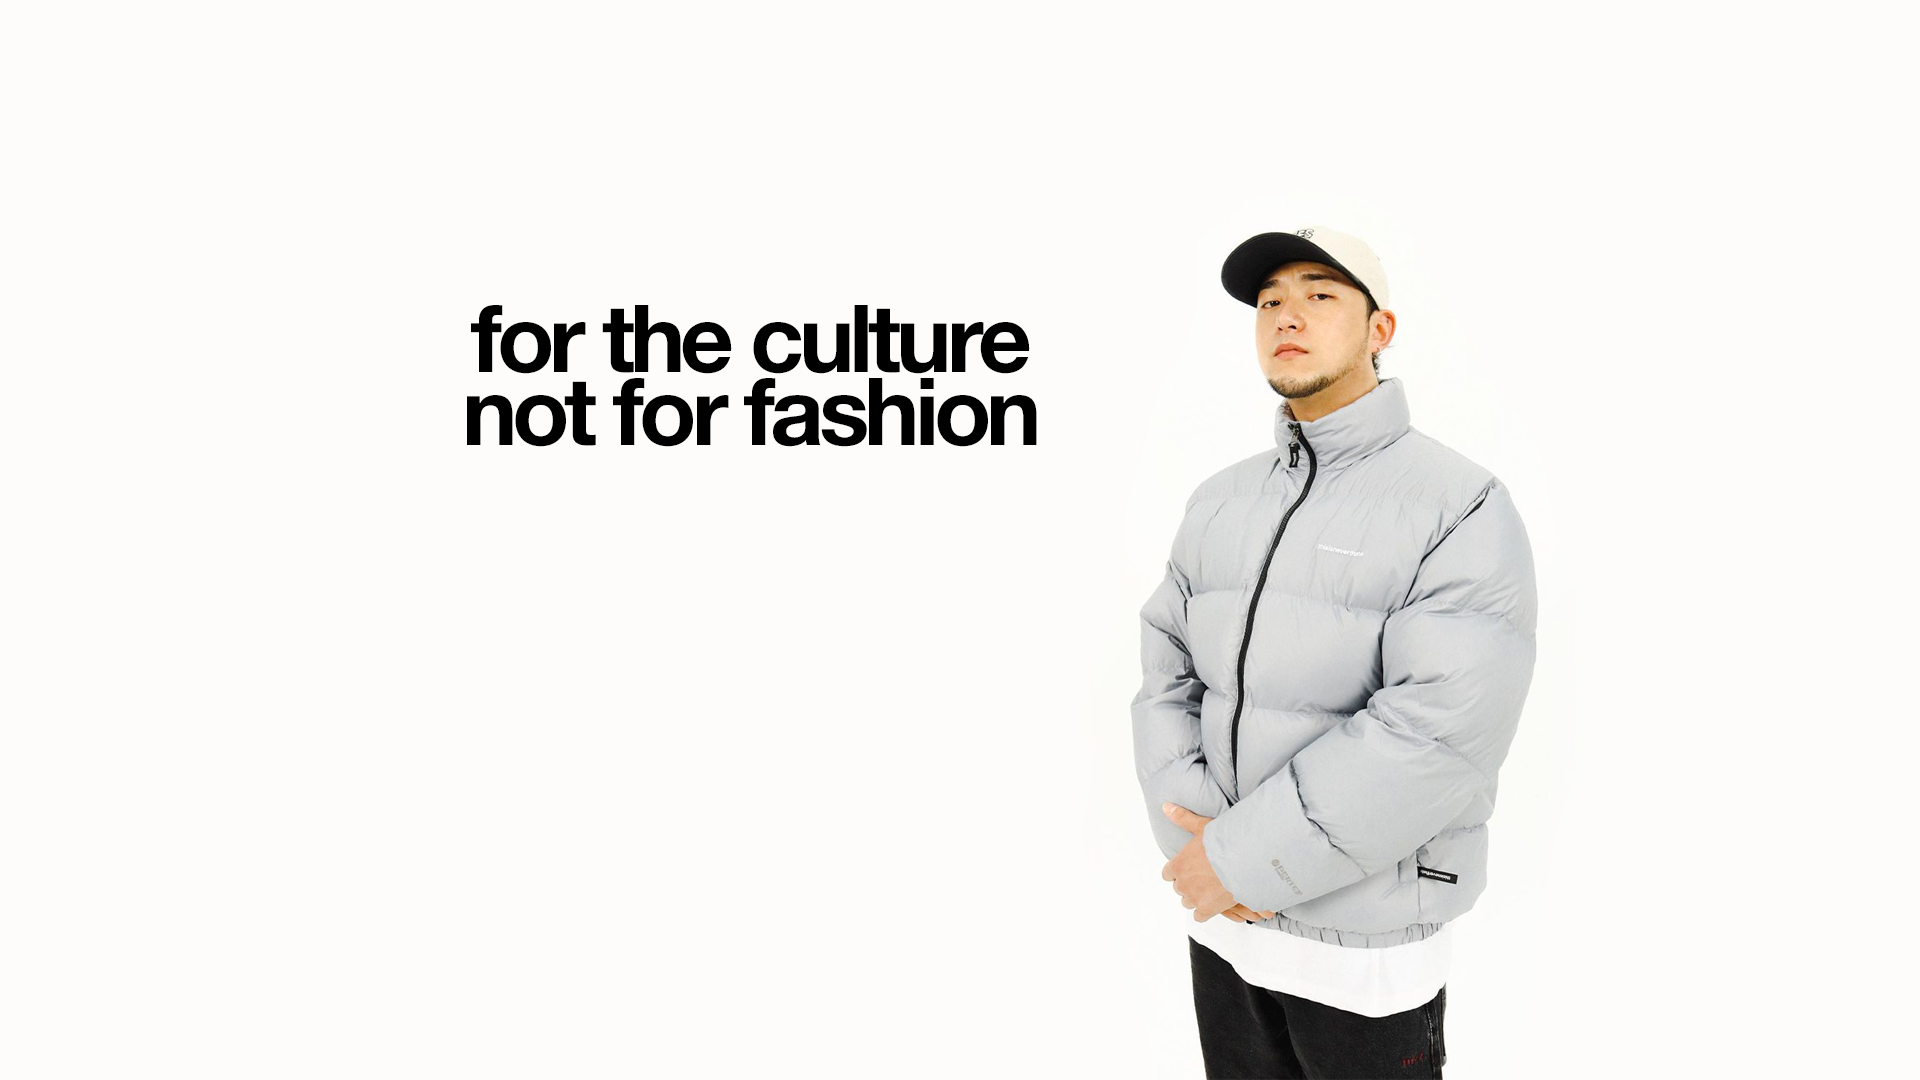
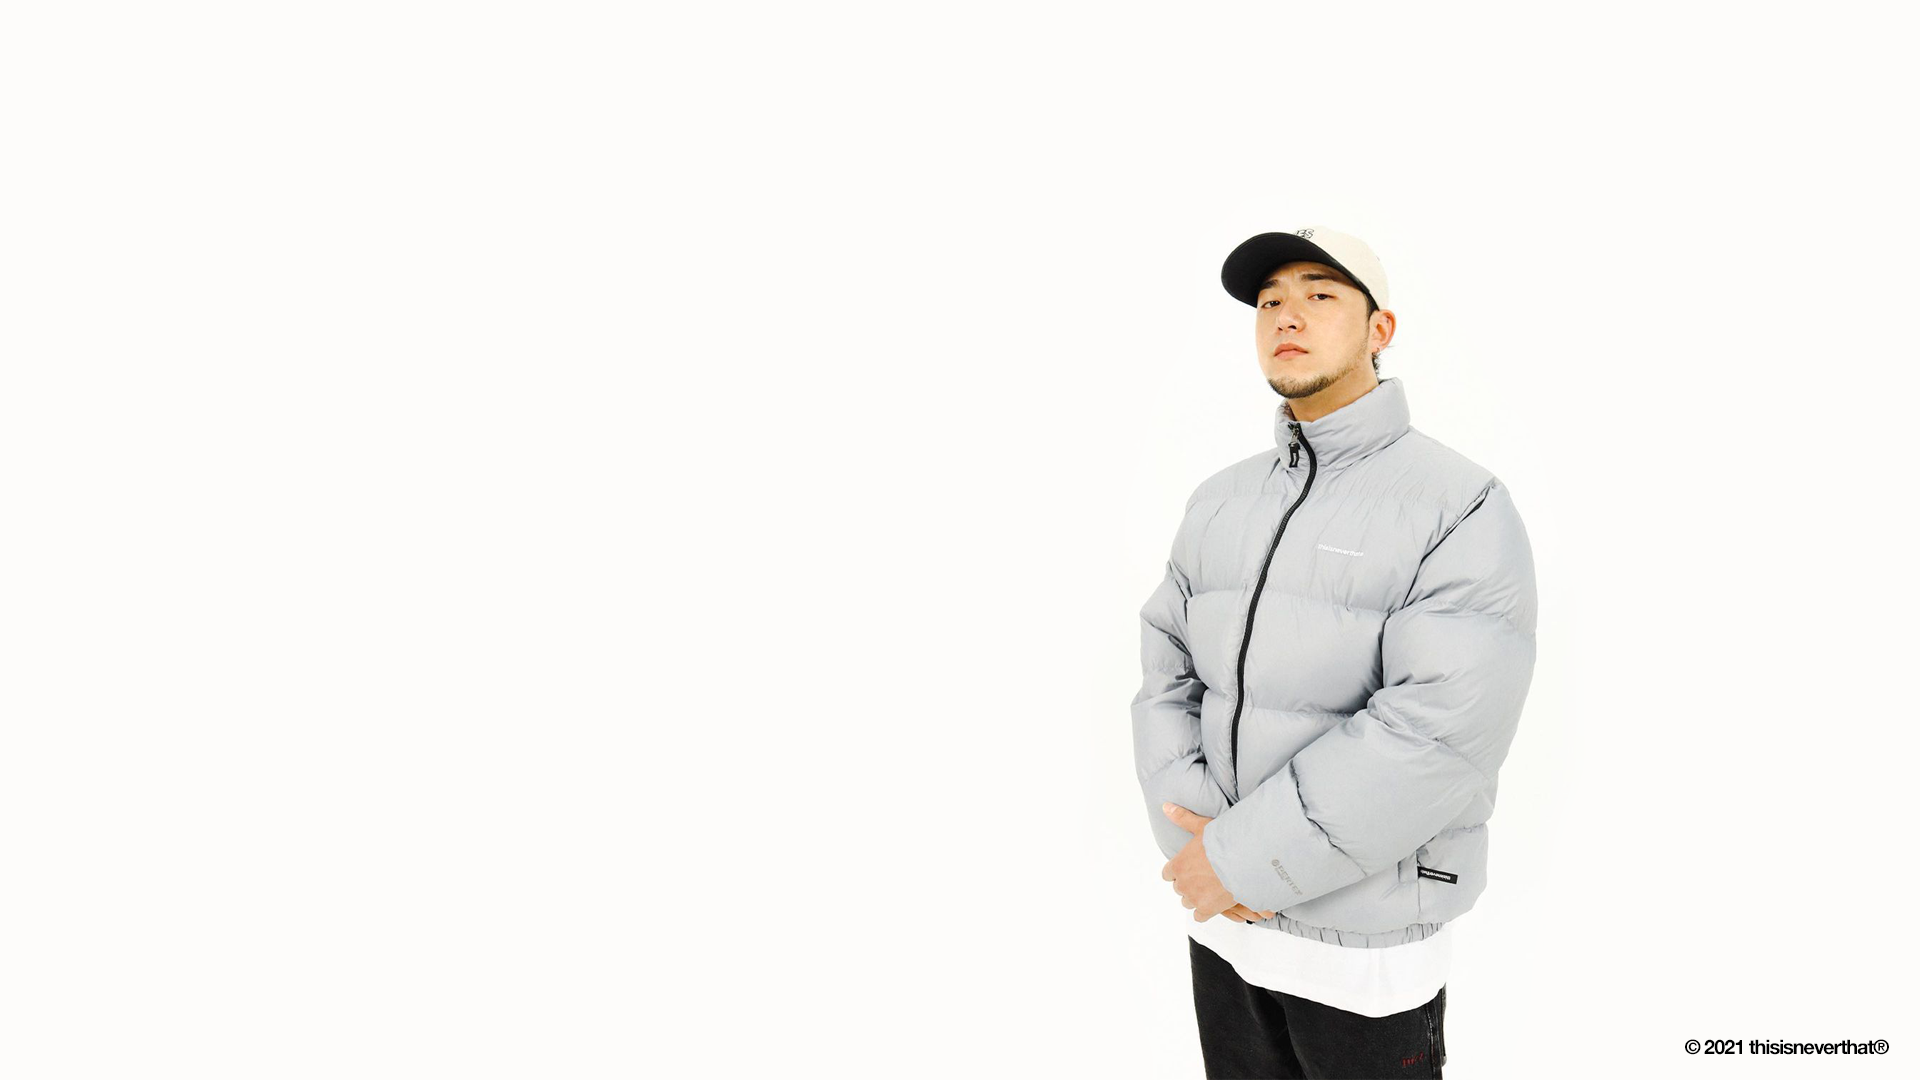
Add files via upload

Changed region(s): [[0.2188, 0.275, 0.5625, 0.4278], [0.875, 0.9472, 1.0, 0.9778]]

diff --git a/css/onepage.css b/css/onepage.css
@@ -2,11 +2,18 @@
 
 *{margin:0; padding:0;}
 html{height:100%;}
-body{overflow-y: hidden;}
+
 body::-webkit-scrollbar {display:none;}
 ul,li,ol {list-style: none;}
 a{text-decoration: none; color:#666;}
 
+/* hamburger */
+
+/* logo */
+#logo{position: absolute; top:0; left:1%; z-index:200; position:fixed; }
+#logo img{width:250px; height:auto;}
+
+/* menu */
 #menu {width:80px; height:250px;  position:fixed; 
     display:flex;
     justify-content:center;
@@ -15,33 +22,118 @@ a{text-decoration: none; color:#666;}
 
 #menu>ul {width:40px; height:220px;}
 
-#menu li {width:20px; height:20px; position:relative;
+#menu li {width:15px; height:15px; position:relative;
     display:block; margin:10px auto; border-radius:50%;
-    background-color: lightgray; transition:all 0.5s ease; }
+    border:1px solid black;
+    transition:all 0.5s ease; }
 
 #menu li a {transition:all 0.3s ease-in-out;
     top:0; left:0; width:100%; height:100%; outline:none; border-radius:50%;
     cursor:pointer; position:absolute;}
 
-#menu li:hover {opacity: 0.5;}    
+#menu li:hover { background-color: black;}    
 
+.active {background-color:black;}
+
+/* main */
 header {position: relative;}
-#logo {display: none;
+
+#text {font-family: "Helvetica Neue";
+    font-weight: bold;
+    font-size: 90px;
+    letter-spacing:-5px;
+    text-align: center;
+    line-height:80px;
     width:600px; height:180px; 
     position:absolute; top:260px; left:450px;
-    opacity: 0.5;
-    background-color: lightslategray; z-index: 200;}
+    z-index: 200;
+    transform:translateX(-500px); transition:all 2.5s; opacity: 0;
+    }
 
 
 
 #contents>div{height:100vh;}
 
-#section1{background-color:#fdfcfa;}
+#section1{background-color:#fdfcfa; position: relative;}
 #section1 img{width:100%; height:100%;}
 
-#section2{background-color:lightcoral;}
+#section1 a span{ position: absolute;
+                    bottom:8%;
+                    left: 50%;
+                    width: 24px;
+                    height: 24px;
+                    margin-left: -12px;
+                    border-left: 1px solid black;
+                    border-bottom: 1px solid black;
+                    -webkit-transform: rotate(-45deg);
+                    transform: rotate(-45deg);
+                    -webkit-animation: sdb05 2s infinite;
+                    animation: sdb05 2s infinite;
+                    box-sizing: border-box;}
 
-#section3{background-color:lightgoldenrodyellow;}
+    @-webkit-keyframes sdb05 {
+    0% {-webkit-transform: rotate(-45deg) translate(0, 0);
+        opacity: 0;}
+    50% {opacity: 1;}
+    100% {-webkit-transform: rotate(-45deg) translate(-20px, 20px);
+        opacity: 0;}
+        }
+
+    @keyframes sdb05 {
+    0% {transform: rotate(-45deg) translate(0, 0);
+        opacity: 0;}
+    50% {opacity: 1;}
+    100% {transform: rotate(-45deg) translate(-20px, 20px);
+          opacity: 0;}
+        }
+             
+        
+                      
+
+#section2{ display: flex; justify-content: space-evenly;}
+.half {width:50%; height:100%; 
+    display:flex;
+    justify-content: center;
+    position: relative;
+     }
+
+.half img {width:100%; height:100%;}
+
+.halfcut{width:860px; height:380px; 
+    position: absolute;
+    top:5%;
+    display: flex;
+    justify-content: space-around;
+    flex-wrap: wrap;
+    }
+
+.halfcut img{width:280px; height:380px;
+            transition:all 0.3s ease-in-out;}    
+           
+.h {font-family: "Helvetica Neue";
+    font-weight: bold;
+    font-size: 90px;
+    letter-spacing:-5px;
+    text-align: center;
+    line-height:80px;
+    position:absolute; bottom:6%; left:10%;
+    z-index: 200;
+    transform:translateY(100px); transition:all 2.5s; opacity: 0;
+    color:white;
+    }            
+      
+
+#section3{background-color:lightgoldenrodyellow; position:relative;}
+#section3 img{width:100%; height:100%;}
+#section3 p {font-family: "Helvetica Neue";
+    font-weight: bold;
+    font-size: 80px;
+    letter-spacing:-5px;
+    text-align: left;
+    line-height:80px;
+    position:absolute;
+    top:40%;
+    left:3%;}
 
 #section4{background-color:lightgray;}
 

diff --git a/index.html b/index.html
@@ -14,10 +14,16 @@
 <body>
     <header>
     <div id="logo">
+        <img src="img/logo3.png" alt="logo">
+    </div>
+    <div id="text">
         <p>for the culture<br>
             not for fashion</p>
     </div>
     </header>
+
+
+
     <div id="menu">
         <ul>
             <li><a href="#section1"></a></li>
@@ -33,12 +39,34 @@
 
     <div id="contents">
         <div id="section1">
-            <img src="img/maintest.png" alt="mainimage">
+            <a href="#section2" class="scroll"><span></span></a>
+            <img src="img/main.png" alt="mainimage">
         </div>
 
-        <div id="section2"></div>
+        <div id="section2">
+            <div class="half">
+                <p class="h">Lorem ipsum dolor</p>
+                <img src="img/page2_1.png" alt="backimage"> 
+            </div>
 
-        <div id="section3"></div>
+            <div class="half">
+                <div class="halfcut">
+                    <img src="img/3_1.png" alt="model" class="model1">
+                    <img src="img/3_2.png" alt="model" class="model2">
+                    <img src="img/3_3.png" alt="model" class="model3">
+                                  
+                </div>    
+            </div>
+        </div>
+            
+        <div id="section3">
+            <p>
+                SP-INTL.<br>
+                Sweater<br>
+                #1
+            </p>
+            <img src="img/section3.png" alt="sweater">
+        </div>
 
         <div id="section4"></div>
 
@@ -61,24 +89,49 @@
             var index = target.index();
             var section = contents.eq(index);
             var offset=section.offset().top;
-            $("html,body").animate({scrollTop:offset},400);
+            $("html,body").animate({scrollTop:offset},1400);
         });
 
-        // li click active
+        
+        $(window).scroll(function () {
 
-        // $(window).scroll(function(){
-        //     var wScroll = $(this).scrollTop();
+            var wScroll = $(this).scrollTop();
 
-        //     if(wScroll>=contents.eq(0).offset().top){
-        //         nav.removeClass("active");
-        //         nav.eq(0).addClass("active");
-        //         $("#menu ul li a").eq(0).css('color','red');
-        //         $("#menu ul li a").not("#menu ul li a:eq(0)").css('color','white');
-        //     }
+            for (i = 0; i < nav.length; i++) {
+                if (wScroll >= contents.eq(i).offset().top) {
+                    nav.removeClass("active");
+                    nav.eq(i).addClass("active");
+                }
+            };
+
+        });
+
+
+        // text 
+        $(document).ready(function(){
+            $("#text").css("transform", "translateX(0px)").css("opacity", "1");
+            $(window).scroll(function () {
+                var ws = $(this).scrollTop();
+                if (ws > 300) {
+                    $('.h').css("transform", "translateY(0px)").css("opacity", "1");
+                }
+            });
+        });
+
+        // scroll down
+
+            $(function () {
+                $('.scroll').on('click', function (e) {
+                    e.preventDefault();
+                    $('html, body').animate({ scrollTop: $($(this).attr('href')).offset().top }, 1000, 'linear');
+                });
+            });
+
+        // hamburger
+
 
             
-
-        // });
+         
     </script>
 </body>
 </html>
